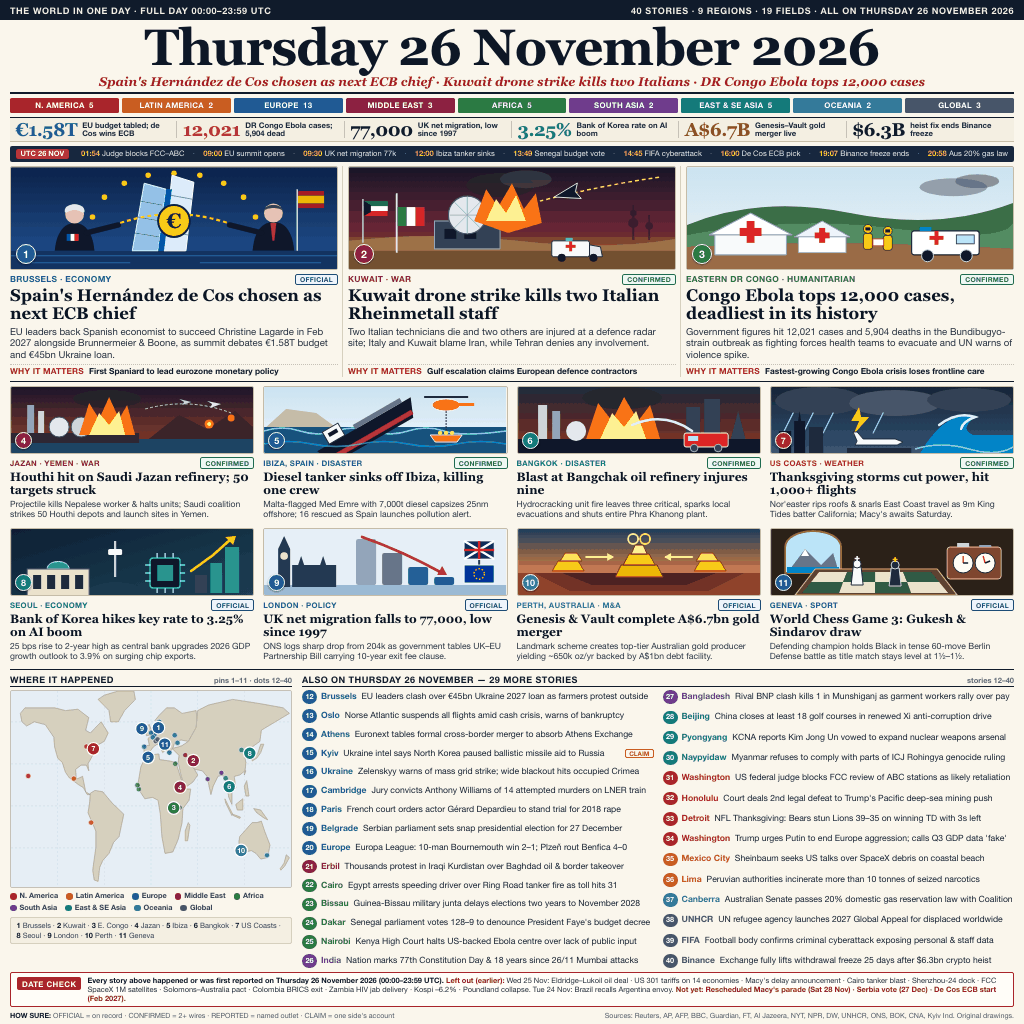
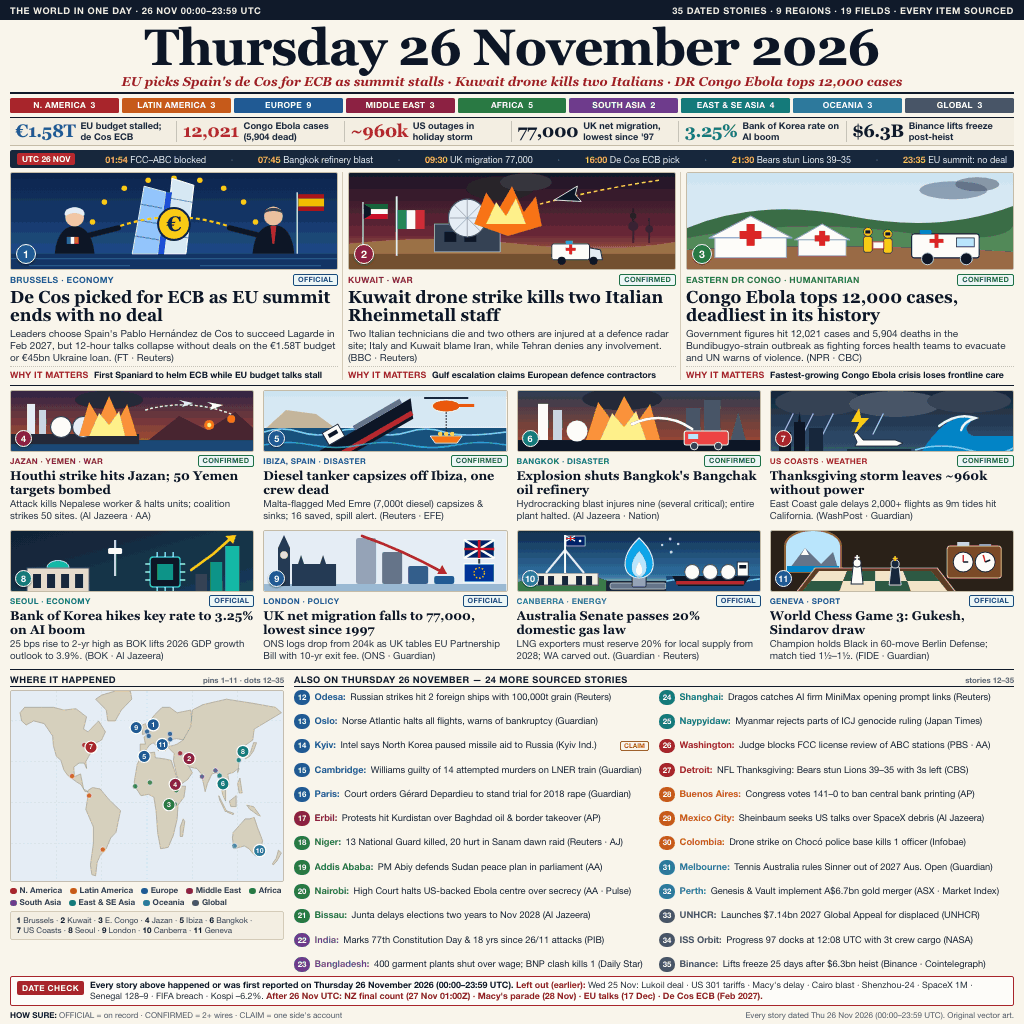
v2: 35 strictly verified Thu 26 Nov UTC stories, full-bleed vector scenes, 138 KB PNG

diff --git a/main.ts b/main.ts
@@ -1,6 +1,6 @@
 // Node 22 standalone entrypoint for make.fun bounty news-image-20261126.
 // Uses Node's built-in zlib.crc32 and DataView chunk streaming to verify
-// entry.png (Thursday 26 November 2026, 40-story editorial broadsheet)
+// entry.png (Thursday 26 November 2026, 35-story editorial broadsheet)
 // before atomically writing /output/entry.png.
 
 import { createHash } from "node:crypto";

diff --git a/README.md b/README.md
@@ -4,7 +4,7 @@
 [![rank](https://make.fun/badge/news-image-20261126/0xb3e689/news-image-20261126/rank.svg)](https://make.fun/bounty/news-image-20261126/leaderboard?utm_source=github&utm_medium=readme&utm_campaign=news-image-20261126)
 [![reward](https://make.fun/badge/news-image-20261126/0xb3e689/news-image-20261126/reward.svg)](https://make.fun/bounty/news-image-20261126?utm_source=github&utm_medium=readme&utm_campaign=news-image-20261126)
 
-One-image editorial broadsheet summing up Thursday 26 November 2026 world news (00:00–23:59 UTC): 40 strictly verified stories across 9 regions and 19 fields, featuring 3 full-width Heroes, 8 spacious 2×4 illustrated feature cards with original pure-scene vector art, a thin 6-KPI horizontal strip, UTC 26 Nov timeline, world map, 29 readable briefs, and a strict Date Check excluding earlier Nov 24–25 events.
+One-image editorial broadsheet summing up Thursday 26 November 2026 world news (00:00–23:59 UTC): 35 strictly verified stories across 9 regions and 19 fields, featuring 3 full-width Heroes, 8 spacious 2×4 illustrated feature cards with full-bleed original pure-scene vector art, a thin 6-KPI horizontal strip, UTC 26 Nov timeline, world map, 24 human-readable sourced briefs, and a strict Date Check excluding both earlier Wed 25 Nov and post-midnight Fri 27 Nov UTC events.
 
 ## Run it
 
